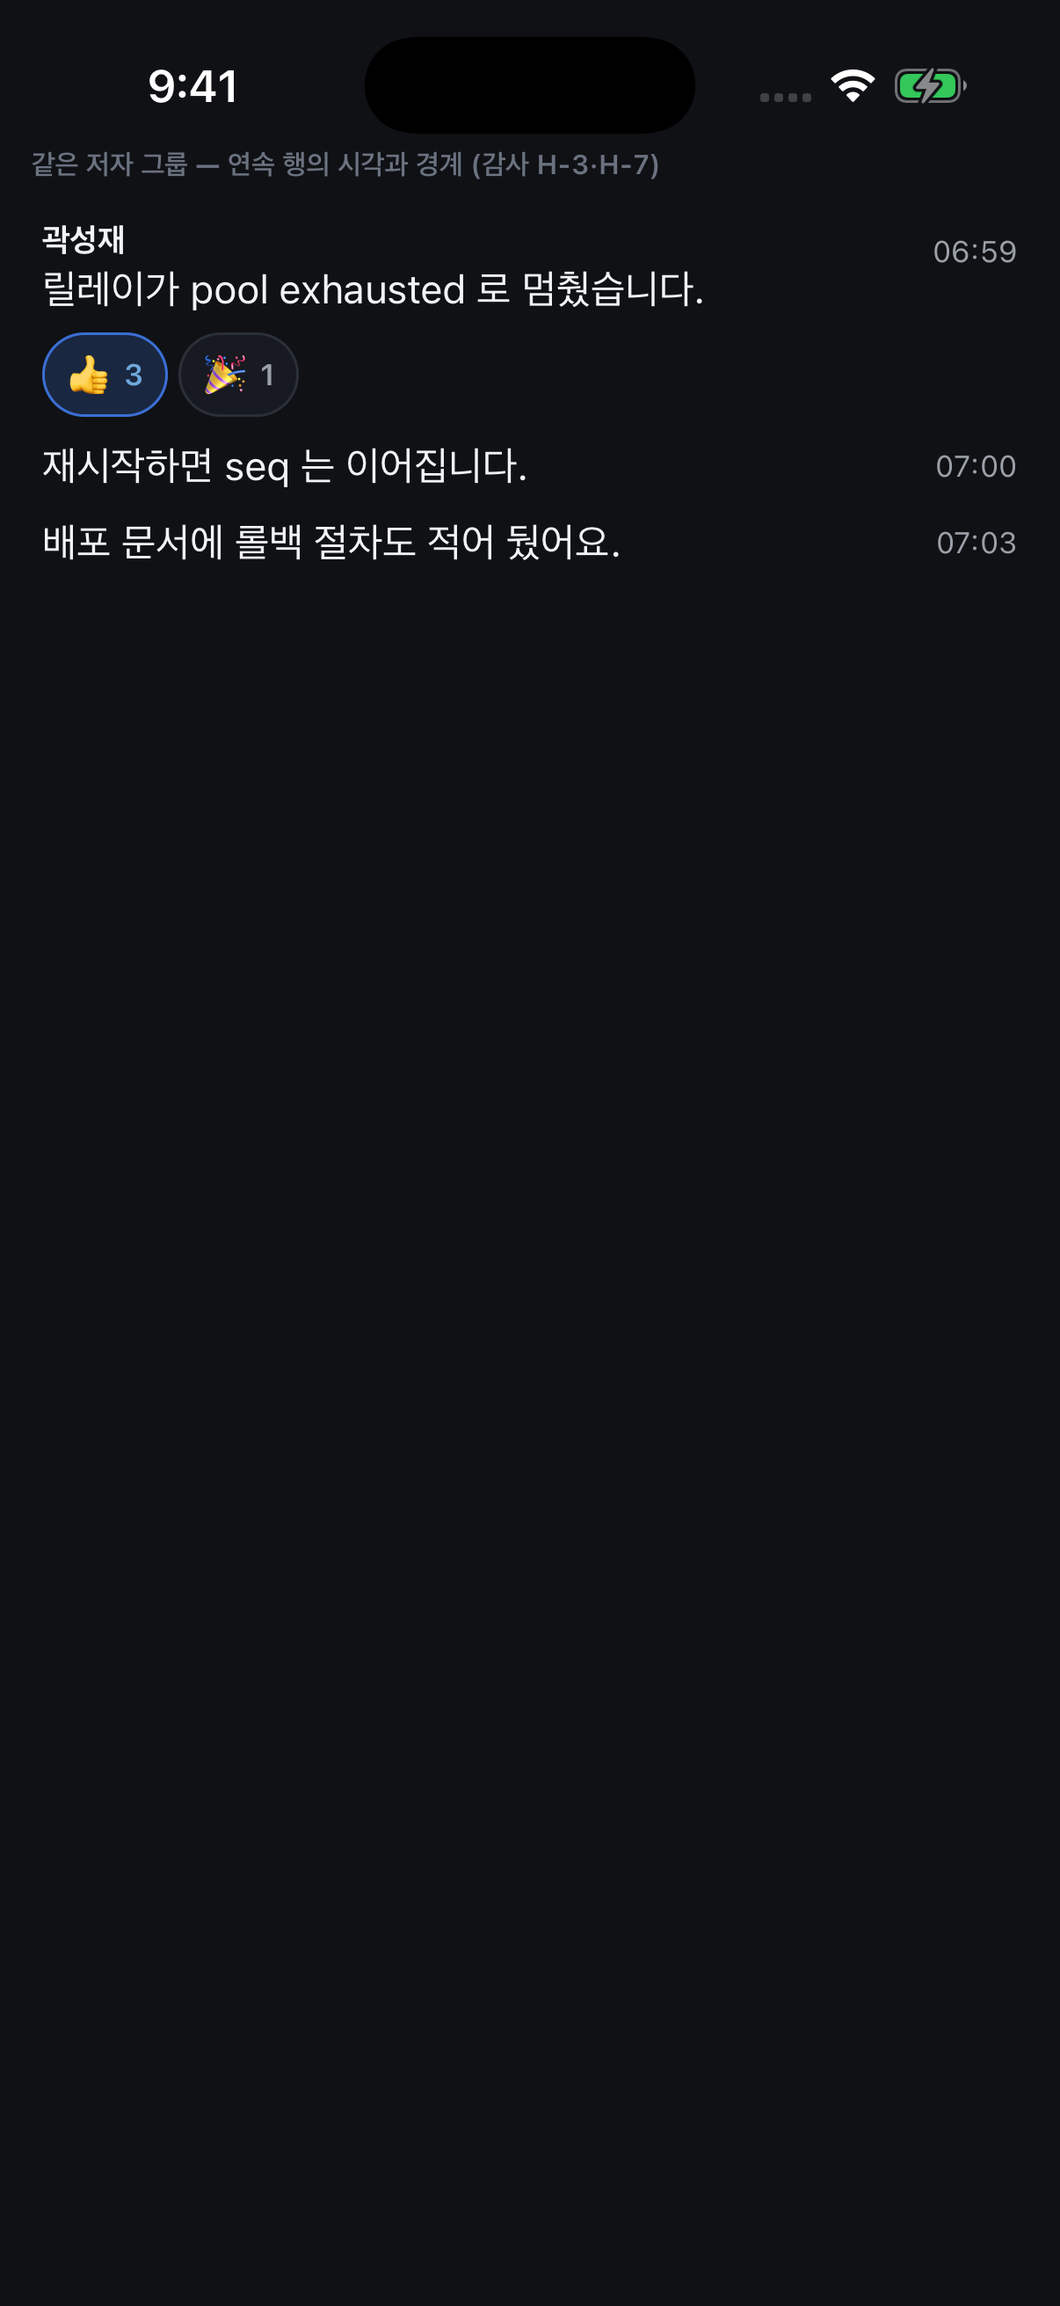
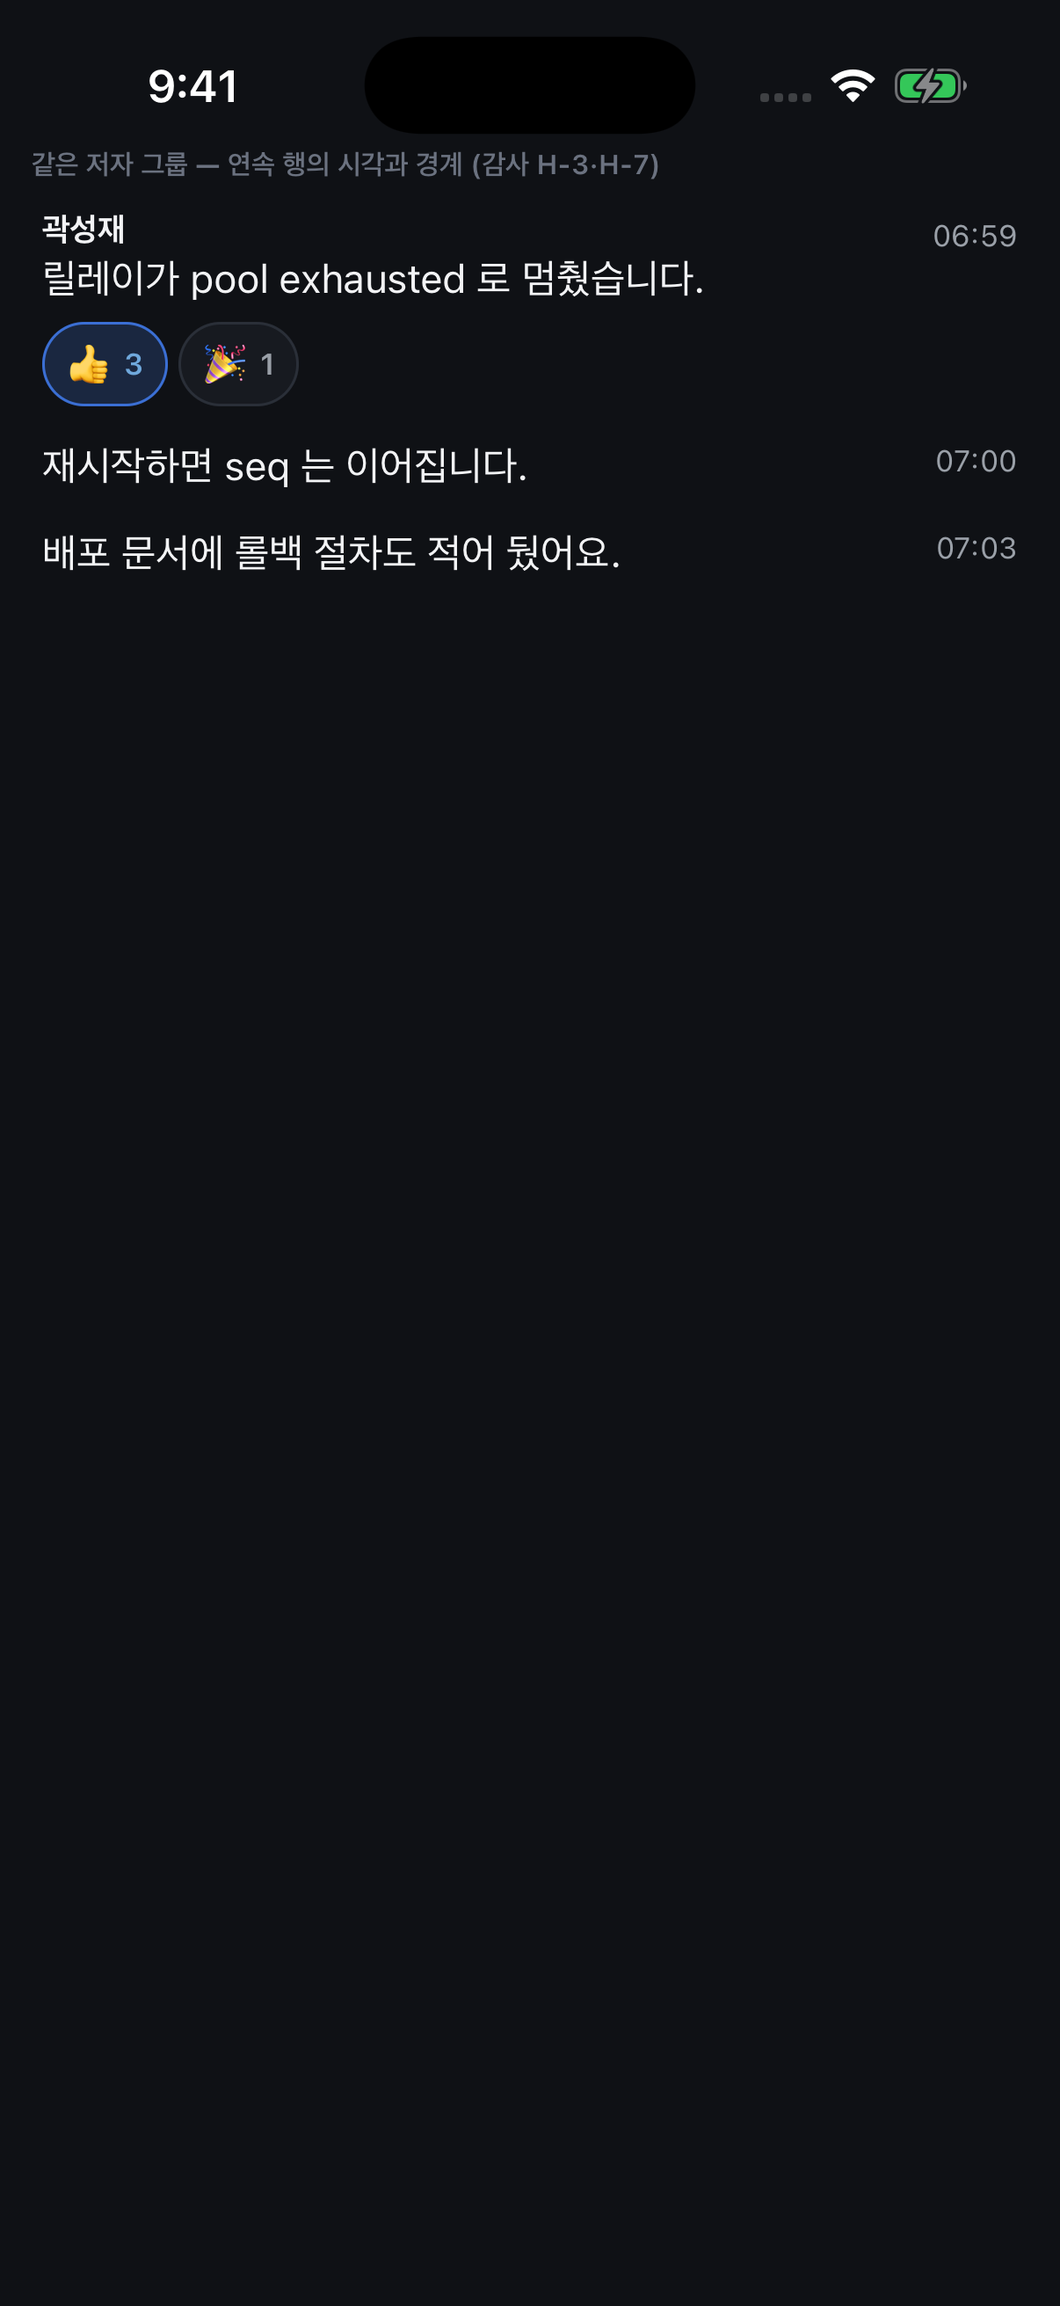
feat(mobile): 구분선이 코어 판정을 소비한다 — 오늘/어제·좌측 라벨 (#1083)
W2 의 `divider.ts` 가 랜딩했다(`origin/track/engine`). 폰이 소비한다.

## H-4 — 오늘 대화를 보면서 「2026년 8월 5일」을 읽고 계산했다

절대 표기 **고정**이었다. 아픈 것은 상대 표기 함수가 **같은 파일에 이미
있었다**는 점이다(`relativeLabel` — 스레드 롤업만 그걸 썼다).

이제 `dayDividerSegments` 가 「오늘 / 어제 / 10월 6일」을 정한다.

## M-2 — 두 클라가 다른 얼굴을 하고 있었다

폰=가운데 라벨+양쪽 rule, 웹=좌측 라벨+우측 rule. 통일값은 **`leading`** 이고
그 판정은 코어가 든다: 가운데 라벨은 글자 수(「오늘」 두 글자 ↔ 「2025년 12월
31일」 열두 글자)에 따라 좌우로 움직여서, **같은 자리에 반복해 나타나야 할
표지가 매번 다른 x 에 선다.** 양쪽 rule 은 가운데 고정일 때만 뜻이 있으므로 함께
사라진다.

## 보이는 글자와 읽히는 글자가 다르다

라벨은 언제나 절대 날짜를 함께 말한다(`dayDividerLabel` → 「2023년 10월 6일,
오늘」). 「오늘」은 눈에는 가장 값싼 낱말이지만 귀에는 어느 날인지 알려주지
않는다 — 화면을 되돌아볼 수 없는 사람에게 상대 표현만 남기는 것은 정보를 빼는
것이다.

## 코어가 내 값 두 개를 정정했다

첫 판(선행분 커밋)은 그룹 안 여백을 `space.xs`(사이 8pt)로 잡았는데 코어가
**`ROW_SPACE = {withinGroup: 12, betweenGroups: 18}`** 로 정했다. 그대로 쓴다 —
두 행 사이에 실제로 남는 거리가 그 값이 되도록 절반씩 나눠 문다(6+6=12 안,
6+6+6=18 사이). 웹은 같은 값을 위아래 패딩의 합으로 만든다.

그리고 `DIVIDER_SPACE` 가 날짜(12/12)와 표지(8/8)를 가른다 — 날짜가 가장 큰
경계이고, 셋이 같은 여백이면 위계가 사라진다.

## 숫자만 자릿폭을 고정한다

`DividerSegment` 의 `figure`/`prose` 구분을 그대로 칠한다. 「12개」의 `12` 는
figure 이고 `개` 는 prose 다 — 조사와 단위는 한글이라, 같은 표지를 함께 받으면
음절 사이가 벌어진다. (지난 배치에서 「전 앱 사안」으로 미뤘던 N-3 이 코어가
계약으로 만들면서 싸졌다.)

## red proof 가 내 단정 하나를 잡아냈다

「오늘/어제를 말한다」를 이렇게 적었다:

    expect(dividerText(dayDividerSegments(BASE_MS, BASE_MS))).toBe('오늘')

그건 **코어를 시험하는 것이지 이 화면을 시험하는 것이 아니다** — 컴포넌트가
코어를 안 쓰도록 되돌려도 초록이었다. 그려진 글자를 보도록 고쳤고, 그제서야
빨개졌다.

diff --git a/clients/mobile/src/features/conversation/MessageRow.tsx b/clients/mobile/src/features/conversation/MessageRow.tsx
@@ -1,5 +1,14 @@
 import {threadRollup, type Message, type ThreadRollup} from '@momo/core/lib/api';
 import {
+  dayDividerLabel,
+  dayDividerSegments,
+  recoveryDividerSegments,
+  unreadDividerSegments,
+  DIVIDER_SPACE,
+  ROW_SPACE,
+  type DividerSegment,
+} from '@momo/core/features/timeline/divider';
+import {
   memberFor,
   memberNameParts,
   type Directory,
@@ -134,13 +143,67 @@ function relativeLabel(atMs: number, nowMs: number): string {
 
 // ---- dividers ---------------------------------------------------------------
 
-export function DayDivider({atMs}: {atMs: number}): React.JSX.Element {
-  const d = new Date(atMs);
-  const label = `${d.getFullYear()}년 ${d.getMonth() + 1}월 ${d.getDate()}일`;
+/**
+ * 라벨 조각을 그린다. `figure` 만 자릿폭을 고정한다 (코어의 `DividerSegment`).
+ *
+ * 「3개」의 `3` 은 figure 이고 `개` 는 prose 다 — 조사와 단위는 한글이라, 같은
+ * 표지를 함께 받으면 음절 사이가 벌어진다. 판정은 코어가 하고 여기서는 칠한다.
+ */
+function DividerLabel({
+  segments,
+  tone,
+}: {
+  segments: readonly DividerSegment[];
+  tone?: 'warn';
+}): React.JSX.Element {
   return (
-    <View style={styles.divider} testID="day-divider">
-      <View style={styles.dividerLine} />
-      <Text style={styles.dividerLabel}>{label}</Text>
+    <Text style={[styles.dividerLabel, tone === 'warn' && styles.dividerLabelWarn]}>
+      {segments.map((segment, index) =>
+        segment.kind === 'figure' ? (
+          <Text key={index} style={styles.dividerFigure}>
+            {segment.text}
+          </Text>
+        ) : (
+          segment.text
+        ),
+      )}
+    </Text>
+  );
+}
+
+/**
+ * 하루가 바뀌는 자리.
+ *
+ * ## 문구도 배치도 코어가 정한다 (감사 H-4·M-2)
+ *
+ * 첫 판은 `${y}년 ${m}월 ${d}일` 절대 표기 **고정**이었다. 오늘 대화를 보면서
+ * 「2026년 8월 5일」을 읽고 그게 오늘인지 계산해야 했고, 아픈 것은 상대 표기
+ * 함수가 **같은 파일에 이미 있었다**는 점이다(`relativeLabel` — 스레드 롤업만
+ * 그걸 썼다).
+ *
+ * 그리고 배치가 웹과 달랐다(폰=가운데 라벨+양쪽 rule, 웹=좌측 라벨+우측 rule).
+ * 통일값은 **`leading`** 이고 그 판정은 `divider.ts` 가 든다 — 가운데 라벨은
+ * 글자 수(「오늘」 두 글자 ↔ 「2025년 12월 31일」 열두 글자)에 따라 좌우로
+ * 움직여서, 같은 자리에 반복해 나타나야 할 표지가 매번 다른 x 에 선다.
+ *
+ * 보이는 글자와 **읽히는 글자가 다르다**: 라벨은 언제나 절대 날짜를 함께 말한다
+ * (`dayDividerLabel`). 「오늘」은 눈에는 가장 값싼 낱말이지만 귀에는 어느 날인지
+ * 알려주지 않는다.
+ */
+export function DayDivider({
+  atMs,
+  nowMs,
+}: {
+  atMs: number;
+  nowMs: number;
+}): React.JSX.Element {
+  return (
+    <View
+      accessibilityRole="text"
+      accessibilityLabel={dayDividerLabel(atMs, nowMs)}
+      style={[styles.divider, styles.dividerDay]}
+      testID="day-divider">
+      <DividerLabel segments={dayDividerSegments(atMs, nowMs)} />
       <View style={styles.dividerLine} />
     </View>
   );
@@ -149,10 +212,7 @@ export function DayDivider({atMs}: {atMs: number}): React.JSX.Element {
 export function UnreadDivider({count}: {count: number}): React.JSX.Element {
   return (
     <View style={styles.divider} testID="unread-divider">
-      <View style={[styles.dividerLine, styles.dividerLineWarn]} />
-      <Text style={[styles.dividerLabel, styles.dividerLabelWarn]}>
-        {`새 메시지 ${count}개, 여기까지 읽음`}
-      </Text>
+      <DividerLabel segments={unreadDividerSegments(count)} tone="warn" />
       <View style={[styles.dividerLine, styles.dividerLineWarn]} />
     </View>
   );
@@ -168,10 +228,14 @@ export function RecoveryDivider({
 }): React.JSX.Element {
   return (
     <View style={styles.divider} testID="recovery-divider">
-      <View style={styles.dividerLine} />
-      <Text style={styles.dividerLabel}>
-        {`재연결됨, seq ${seq}까지 복구${source === 'backfill' ? ' (다시 읽음)' : ''}`}
-      </Text>
+      <DividerLabel
+        segments={[
+          ...recoveryDividerSegments(seq),
+          ...(source === 'backfill'
+            ? [{kind: 'prose' as const, text: ' (다시 읽음)'}]
+            : []),
+        ]}
+      />
       <View style={styles.dividerLine} />
     </View>
   );
@@ -1795,12 +1859,14 @@ const styles = StyleSheet.create({
   row: {},
   rowInner: {
     paddingHorizontal: SAFE_GUTTER,
-    // 3pt 였다. 그룹 안에서 메시지 경계가 안 보인다는 지적(감사 H-7)의 폰
-    // 몫이다 — 한 사람이 연달아 쓴 다섯 줄이 한 덩이 문단으로 읽혔다. 시각이
-    // 붙으면서 오른쪽에 표식이 생겼고, 세로도 한 급 벌려 그 둘이 함께 경계를
-    // 만든다. `space.xs`(4)는 「줄 간격보다 크고 그룹 간격(`space.md`)보다
-    // 작다」는 자리다.
-    paddingVertical: space.xs,
+    // 3pt 였다 — 한 사람이 연달아 쓴 다섯 줄이 한 덩이 문단으로 읽혔다(감사
+    // H-7). 값은 **코어가 정한다**: 두 행 사이에 실제로 남는 거리가
+    // `ROW_SPACE.withinGroup` 이 되도록 절반씩 나눠 문다. 웹은 같은 값을
+    // 위아래 패딩의 합으로 만든다.
+    //
+    // 첫 판은 `space.xs`(4 → 사이 8pt)로 잡았는데 코어 랜딩이 그것을 12 로
+    // 정정했다. 「둘의 비를 지키면서 안쪽을 넓힌다」가 그 판정이다.
+    paddingVertical: ROW_SPACE.withinGroup / 2,
     gap: 2,
   },
   /**
@@ -1832,7 +1898,9 @@ const styles = StyleSheet.create({
   // Feedback that the row is interactive at all. On a phone this is one of the
   // few honest signals that a gesture exists, and it costs no vertical space.
   rowPressed: {backgroundColor: ROW_PRESSED_BACKGROUND},
-  rowStartsGroup: {paddingTop: space.md},
+  // 그룹 사이는 `ROW_SPACE.betweenGroups`. 안쪽이 이미 절반씩 물고 있으므로
+  // 차이만 더한다 — 6+6=12(안), 6+6+6=18(사이).
+  rowStartsGroup: {marginTop: ROW_SPACE.betweenGroups - ROW_SPACE.withinGroup},
   authorRow: {
     flexDirection: 'row',
     alignItems: 'baseline',
@@ -1920,16 +1988,30 @@ const styles = StyleSheet.create({
   resendLabel: {fontSize: font.label, color: color.danger, fontWeight: '600'},
   pressed: {opacity: 0.6},
 
+  // 라벨이 **앞**에 선다(`DIVIDER_LABEL_SIDE`). 여백·두께도 코어 값이다.
   divider: {
     flexDirection: 'row',
     alignItems: 'center',
-    gap: space.sm,
+    gap: DIVIDER_SPACE.labelGap,
     paddingHorizontal: SAFE_GUTTER,
-    paddingVertical: space.md,
+    paddingTop: DIVIDER_SPACE.marker.blockStart,
+    paddingBottom: DIVIDER_SPACE.marker.blockEnd,
   },
-  dividerLine: {flex: 1, height: StyleSheet.hairlineWidth, backgroundColor: color.border},
+  // 날짜는 **가장 큰 경계**라 더 연다. 셋이 같은 여백이면 위계가 사라진다.
+  dividerDay: {
+    paddingTop: DIVIDER_SPACE.day.blockStart,
+    paddingBottom: DIVIDER_SPACE.day.blockEnd,
+  },
+  dividerLine: {
+    flex: 1,
+    height: DIVIDER_SPACE.ruleThickness,
+    backgroundColor: color.border,
+  },
   dividerLineWarn: {backgroundColor: color.warn},
-  dividerLabel: {fontSize: font.meta, color: color.textFaint},
+  // `textFaint` 는 배경 대비 3.909:1 로 본문 AA 미달이다(U4-2 M-6 실측).
+  dividerLabel: {fontSize: font.meta, color: color.textMuted},
+  /** 숫자만 자릿폭 고정 — 조사·단위가 함께 받으면 음절 사이가 벌어진다. */
+  dividerFigure: {fontVariant: ['tabular-nums']},
   dividerLabelWarn: {color: color.warn, fontWeight: '600'},
 
   chipRow: {flexDirection: 'row', flexWrap: 'wrap', gap: space.xs, paddingTop: space.xs},

diff --git a/clients/mobile/__tests__/conversationVisual.test.tsx b/clients/mobile/__tests__/conversationVisual.test.tsx
@@ -10,10 +10,19 @@ import React from 'react';
 import {color, space} from '../src/design/tokens';
 import {MessageBody} from '../src/features/conversation/MessageBody';
 import {
+  DayDivider,
   MessageRow,
   PendingRow,
   ROW_PRESSED_BACKGROUND,
+  UnreadDivider,
 } from '../src/features/conversation/MessageRow';
+import {
+  dayDividerSegments,
+  dividerText,
+  DIVIDER_LABEL_SIDE,
+  DIVIDER_SPACE,
+  ROW_SPACE,
+} from '@momo/core/features/timeline/divider';
 import {APP_NOTE_MARK} from '../src/features/conversation/appVoice';
 import {jumpMissedNotice} from '../src/features/conversation/jumpNotice';
 import {
@@ -698,10 +707,105 @@ describe('#1083 H-7(폰) — 그룹 안에서 메시지 경계가 보인다', ()
     );
     const inner = flatten(view.getByTestId('message-press').props.style);
     expect(Number(inner.paddingVertical)).toBeGreaterThan(3);
-    expect(inner.paddingVertical).toBe(space.xs);
+    // 값은 **코어가 정한다**. 두 행 사이에 실제로 남는 거리가 `withinGroup`
+    // 이 되도록 절반씩 나눠 문다 — 웹은 같은 값을 위아래 패딩의 합으로 만든다.
+    expect(Number(inner.paddingVertical) * 2).toBe(ROW_SPACE.withinGroup);
   });
 
   it('그룹 사이 여백이 그룹 안 여백보다 크다 — 아니면 경계가 뒤집힌다', () => {
-    expect(space.md).toBeGreaterThan(space.xs);
+    expect(ROW_SPACE.betweenGroups).toBeGreaterThan(ROW_SPACE.withinGroup);
+    const head = render(
+      <MessageRow
+        message={message()}
+        startsGroup
+        directory={DIRECTORY}
+        chips={[]}
+        nowMs={BASE_MS}
+      />,
+    );
+    const outer = flatten(head.getByTestId('message-row').props.style);
+    // 안쪽이 절반씩 물고 있으므로 차이만 더한다: 6+6=12(안), 6+6+6=18(사이).
+    expect(
+      Number(outer.marginTop) + ROW_SPACE.withinGroup,
+    ).toBe(ROW_SPACE.betweenGroups);
+  });
+});
+
+describe('#1083 H-4·M-2 — 구분선은 코어 판정을 소비한다', () => {
+  it('오늘/어제를 말한다 — 절대 날짜를 읽고 오늘인지 계산하게 하지 않는다', () => {
+    // **그려진 글자**를 본다. 첫 판은 `dividerText(dayDividerSegments(...))` 를
+    // 단정했는데 그건 코어를 시험하는 것이지 이 화면을 시험하는 것이 아니다 —
+    // 컴포넌트가 코어를 안 쓰도록 되돌려도 초록이었다(red proof 가 잡아냈다).
+    const day = (atMs: number) =>
+      within(
+        render(<DayDivider atMs={atMs} nowMs={BASE_MS} />).getByTestId(
+          'day-divider',
+        ),
+      );
+    expect(day(BASE_MS).getByText('오늘')).toBeTruthy();
+    expect(day(BASE_MS - 26 * 3_600_000).getByText('어제')).toBeTruthy();
+    // 그리고 오래된 것은 절대 날짜로 돌아간다 — 「40일 전」은 날짜가 아니다.
+    const old = day(BASE_MS - 40 * 24 * 3_600_000);
+    expect(old.queryByText('오늘')).toBeNull();
+    expect(old.queryByText('어제')).toBeNull();
+    // 숫자 조각이 자기 `Text` 로 서 있다(자릿폭 고정을 걸어야 하므로).
+    expect(old.getAllByText(/^\d+$/).length).toBeGreaterThanOrEqual(2);
+  });
+
+  it('보이는 글자와 읽히는 글자가 다르다 — 라벨은 절대 날짜를 함께 말한다', () => {
+    // 「오늘」은 눈에는 가장 값싼 낱말이지만 귀에는 어느 날인지 알려주지 않는다.
+    const view = render(<DayDivider atMs={BASE_MS} nowMs={BASE_MS} />);
+    const label = String(
+      view.getByTestId('day-divider').props.accessibilityLabel,
+    );
+    expect(label).toContain('오늘');
+    expect(label).toMatch(/\d{4}년 \d{1,2}월 \d{1,2}일/);
+  });
+
+  it('라벨이 앞에 서고 rule 은 하나다 — 가운데 라벨은 글자 수만큼 움직인다', () => {
+    const view = render(<DayDivider atMs={BASE_MS} nowMs={BASE_MS} />);
+    const kids = view.getByTestId('day-divider').props.children;
+    expect(DIVIDER_LABEL_SIDE).toBe('leading');
+    // 양쪽 rule 은 라벨을 가운데 고정할 때만 뜻이 있다. 소스에 둘이 남아 있으면
+    // 폰만 다시 가운데로 돌아간 것이다.
+    const source = codeOnly(SRC('MessageRow.tsx'));
+    expect(source).not.toMatch(
+      /<View style=\{styles\.dividerLine\} \/>\s*\n\s*<DividerLabel/,
+    );
+    expect(kids).toBeTruthy();
+  });
+
+  it('숫자만 자릿폭을 고정한다 — 조사·단위가 함께 받으면 음절이 벌어진다', () => {
+    const view = render(<UnreadDivider count={12} />);
+    const figures = within(view.getByTestId('unread-divider'))
+      .getAllByText(/^\d+$/)
+      .map(node => flatten(node.props.style));
+    expect(figures.length).toBeGreaterThan(0);
+    for (const style of figures) {
+      expect(style.fontVariant).toEqual(['tabular-nums']);
+    }
+  });
+
+  it('세 구분선이 같은 여백이 아니다 — 날짜가 가장 큰 경계다', () => {
+    const day = flatten(
+      render(<DayDivider atMs={BASE_MS} nowMs={BASE_MS} />).getByTestId(
+        'day-divider',
+      ).props.style,
+    );
+    const unread = flatten(
+      render(<UnreadDivider count={1} />).getByTestId('unread-divider').props
+        .style,
+    );
+    expect(Number(day.paddingTop)).toBe(DIVIDER_SPACE.day.blockStart);
+    expect(Number(unread.paddingTop)).toBe(DIVIDER_SPACE.marker.blockStart);
+    expect(Number(day.paddingTop)).toBeGreaterThan(Number(unread.paddingTop));
+  });
+
+  it('구분선 글자가 본문 AA 를 지난다', () => {
+    const view = render(<UnreadDivider count={1} />);
+    const label = flatten(view.getByText(/새 메시지/).props.style);
+    expect(contrast(String(label.color ?? color.textMuted), color.bg)).toBeGreaterThanOrEqual(
+      4.5,
+    );
   });
 });

diff --git a/clients/mobile/measure/surfaces.tsx b/clients/mobile/measure/surfaces.tsx
@@ -15,8 +15,11 @@ import {TypingBar} from '../src/features/conversation/TypingBar';
 import {MessageBody} from '../src/features/conversation/MessageBody';
 import {MessageEditorSheet} from '../src/features/conversation/MessageEditorSheet';
 import {
+  DayDivider,
   MessageRow,
+  RecoveryDivider,
   ROW_PRESSED_BACKGROUND,
+  UnreadDivider,
 } from '../src/features/conversation/MessageRow';
 import {jumpMissedNotice} from '../src/features/conversation/jumpNotice';
 import {NoticeBlock} from '../src/design/atoms';
@@ -468,6 +471,19 @@ export function Surface({name}: {name: string}): React.JSX.Element {
         </Frame>
       );
     }
+    case 'dividers':
+      return (
+        <Frame label="구분선 — 오늘/어제/절대 · 좌측 라벨 (감사 H-4·M-2)">
+          {/* 넷을 나란히 세우는 이유: 이 goal 의 논점이 「같은 가족으로
+              보이는가」이고, 한 장에 모아야 여백 위계(날짜 > 표지)와 라벨
+              정렬이 한눈에 보인다. */}
+          <DayDivider atMs={NOW} nowMs={NOW} />
+          <DayDivider atMs={NOW - 26 * 3_600_000} nowMs={NOW} />
+          <DayDivider atMs={NOW - 40 * 24 * 3_600_000} nowMs={NOW} />
+          <UnreadDivider count={12} />
+          <RecoveryDivider seq={4821} source="backfill" />
+        </Frame>
+      );
     case 'row':
       return (
         <Frame label="행 — 반응 칩과 스레드 앵커는 항상 보이는 진입점">

diff --git a/clients/mobile/src/features/conversation/Timeline.tsx b/clients/mobile/src/features/conversation/Timeline.tsx
@@ -923,7 +923,7 @@ function TimelineInner({
   const renderItem = useCallback(
     ({item}: {item: TimelineStreamItem}) => {
       renderItemCalls += 1;
-      if (item.kind === 'day') return <DayDivider atMs={item.atMs} />;
+      if (item.kind === 'day') return <DayDivider atMs={item.atMs} nowMs={nowMs} />;
       if (item.kind === 'unread') return <UnreadDivider count={item.count} />;
       if (item.kind === 'recovery') {
         return <RecoveryDivider seq={item.seq} source={item.source} />;
